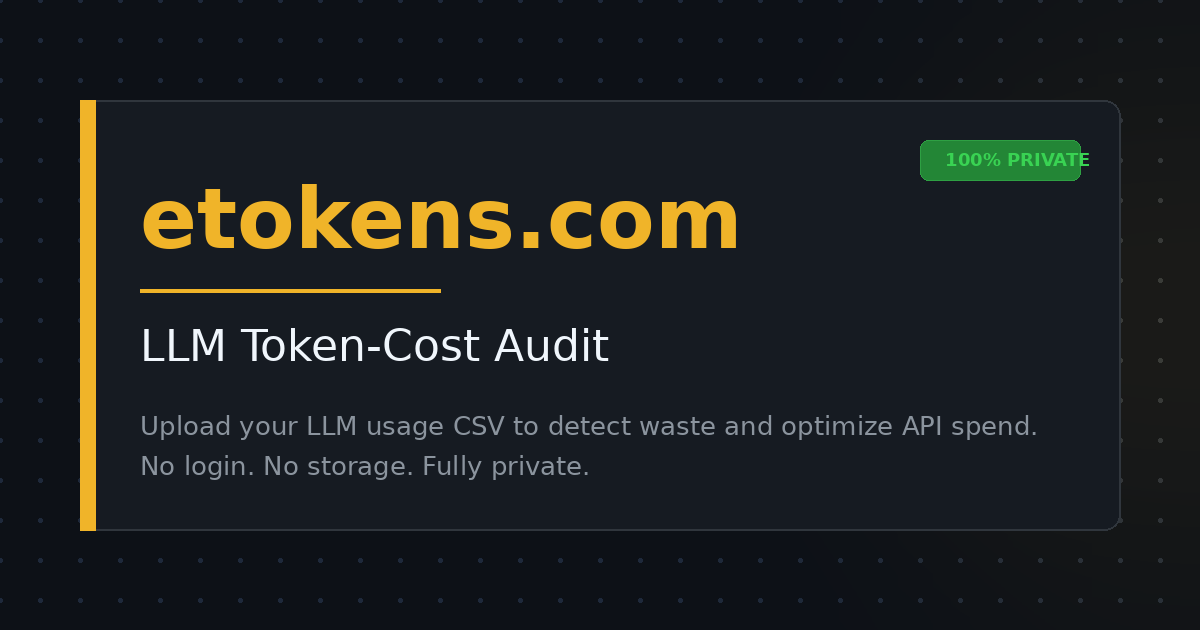
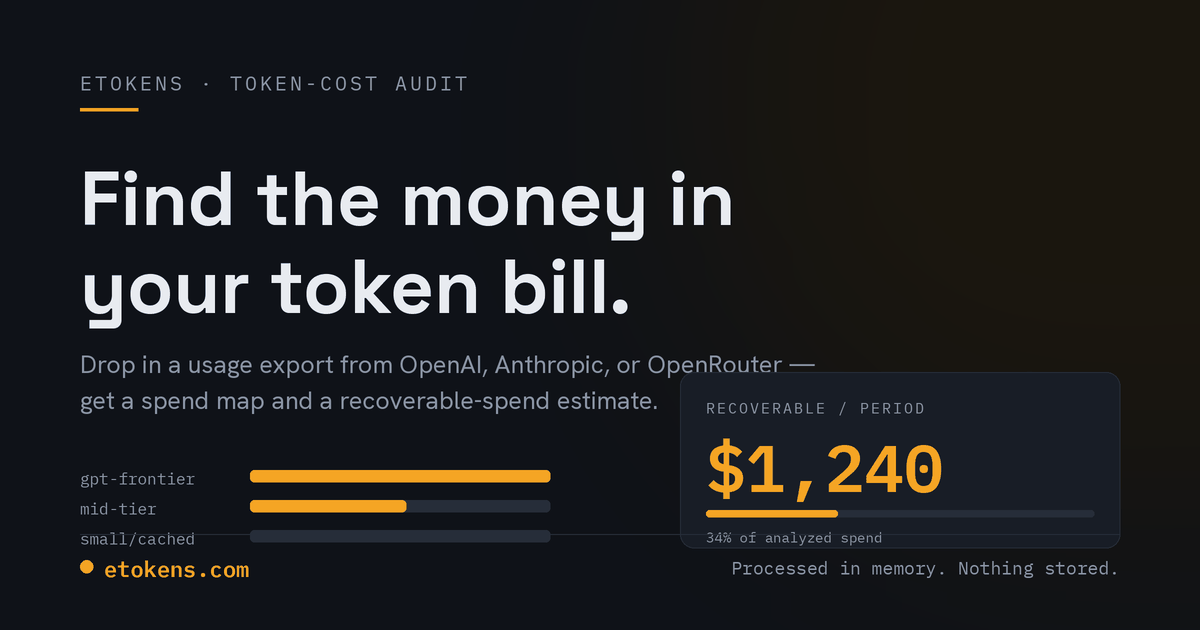
Add Open Graph image and OG/Twitter meta tags

Changed region(s): [[0.0617, 0.1206, 0.925, 0.9349], [0.74, 0.2111, 0.925, 0.3016]]

diff --git a/index.php b/index.php
@@ -87,6 +87,18 @@ $CANON_LABELS = [
 <meta charset="utf-8">
 <meta name="viewport" content="width=device-width, initial-scale=1">
 <title>etokens — token-cost audit</title>
+<meta property="og:type" content="website">
+<meta property="og:url" content="https://etokens.com/">
+<meta property="og:title" content="etokens — token-cost audit">
+<meta property="og:description" content="Find the money in your token bill. Drop in a usage export from OpenAI, Anthropic, or OpenRouter and get a spend map plus a recoverable-spend estimate. Processed in memory — nothing stored.">
+<meta property="og:image" content="https://etokens.com/og-image.png">
+<meta property="og:image:width" content="1200">
+<meta property="og:image:height" content="630">
+<meta property="og:image:alt" content="etokens — token-cost audit">
+<meta name="twitter:card" content="summary_large_image">
+<meta name="twitter:title" content="etokens — token-cost audit">
+<meta name="twitter:description" content="Find the money in your token bill. A token-cost audit for OpenAI, Anthropic, and OpenRouter usage.">
+<meta name="twitter:image" content="https://etokens.com/og-image.png">
 <style>
 @font-face{font-family:'Space Grotesk';src:url('/fonts/SpaceGrotesk.woff2') format('woff2');font-weight:400 700;font-display:swap}
 @font-face{font-family:'Hanken Grotesk';src:url('/fonts/HankenGrotesk.woff2') format('woff2');font-weight:400 600;font-display:swap}